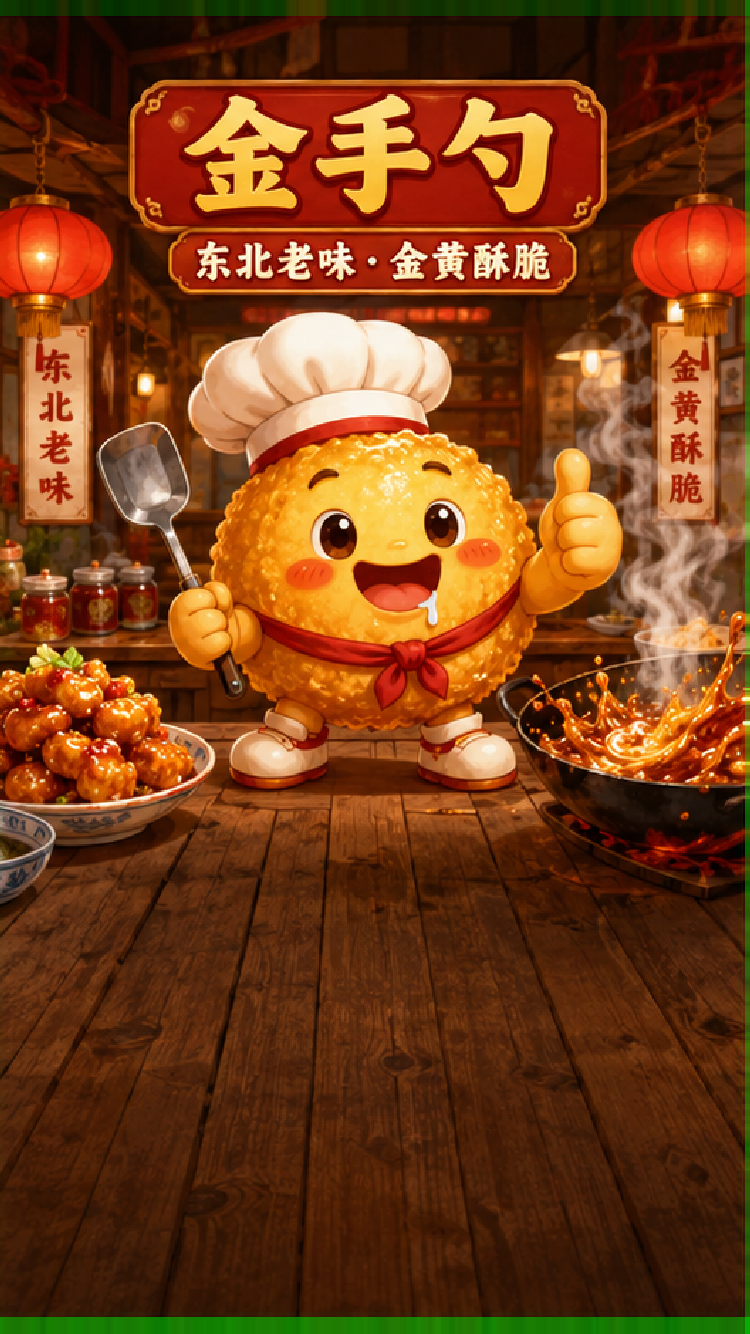
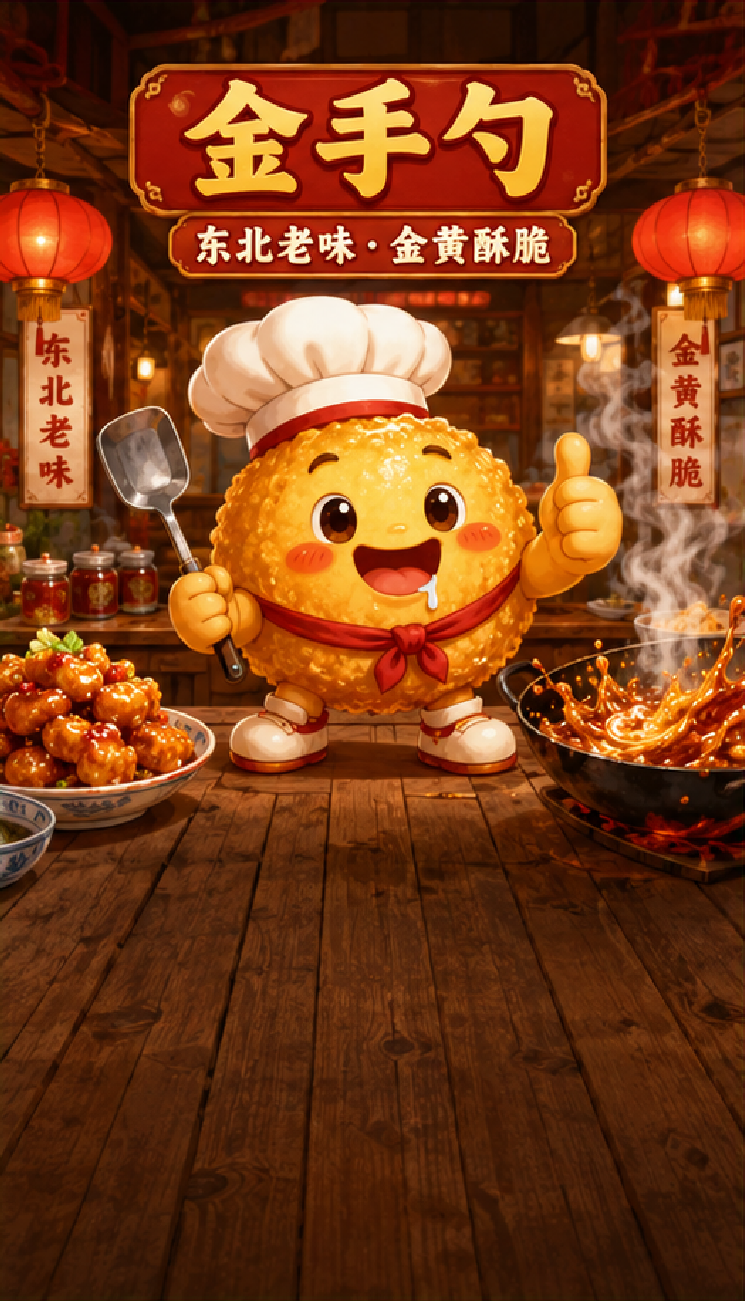
🐛 修 9折/8折卡片右侧截断 + 背景图 4 边绿幕
根因 1 (卡片截断):
- .campaign-stage 用 width: min(100vw, 420px)
- 但 body padding: 18px 左右各 18 = 总 36px
- 在 393px viewport 下, stage 实际宽度 = 393,但 body 内容区只有 357
- grid + place-items: center 把 stage 居中,stage 右边溢出 viewport 18px
- stage 有 overflow:hidden → 8折卡 (right=407) 超出 viewport 部分被切掉

修复:
- width: min(calc(100vw - 36px), 420px) 让 stage 预留 body padding 空间
- 验证: 393 viewport 下 stage=357,8折卡 right=371.7 完整可见 ✓
- 验证: iPhone 14 (390) stage=354,8折卡 right=368.7 完整可见 ✓
- 验证: 1024 desktop stage=420 (cap),卡片正常 ✓

根因 2 (背景图绿幕):
- background_layer.png 和 background-full.png 都被 ChatGPT 生成时泄漏了 alpha 边界:
  - 底部 y=1317-1333 (17px) 整条 #178002 绿色横条
  - 顶部 y=0-15 (16px) 暗绿渐变带
  - 右侧 x=745-749 (5px) 整列 #187002 绿色

修复:
- 裁剪 background_layer.png 和 background-full.png 去掉 3 边绿色,剩 745×1301
- 更新 CSS aspect-ratio: 750/1334 → 745/1301
- 验证: 像素扫描 (393x852) 上下左右四边绿色像素 = 0 ✓

验证截图:
- demo/local-final-screenshot.png (iPhone 14 Pro 393x852 local)
- demo/iphone14-screenshot.png (iPhone 14 390x844 local)
- demo/wide-screenshot.png (Desktop 1024x768 local)

diff --git a/demo/style.css b/demo/style.css
@@ -3,8 +3,8 @@ html, body { margin: 0; min-height: 100%; background: #202124; font-family: -app
 body { display: grid; place-items: center; padding: 18px; }
 .campaign-stage {
   position: relative;
-  width: min(100vw, 420px);
-  aspect-ratio: 750 / 1334;
+  width: min(calc(100vw - 36px), 420px);
+  aspect-ratio: 745 / 1301;
   overflow: hidden;
   background: #111;
   border-radius: 24px;